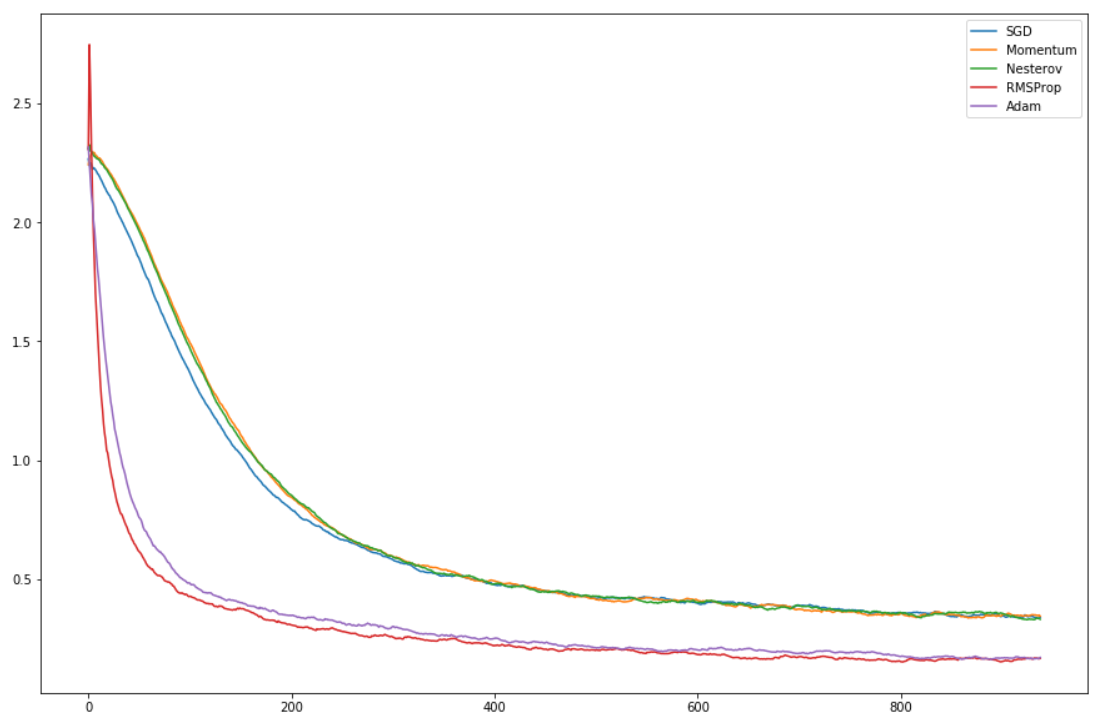
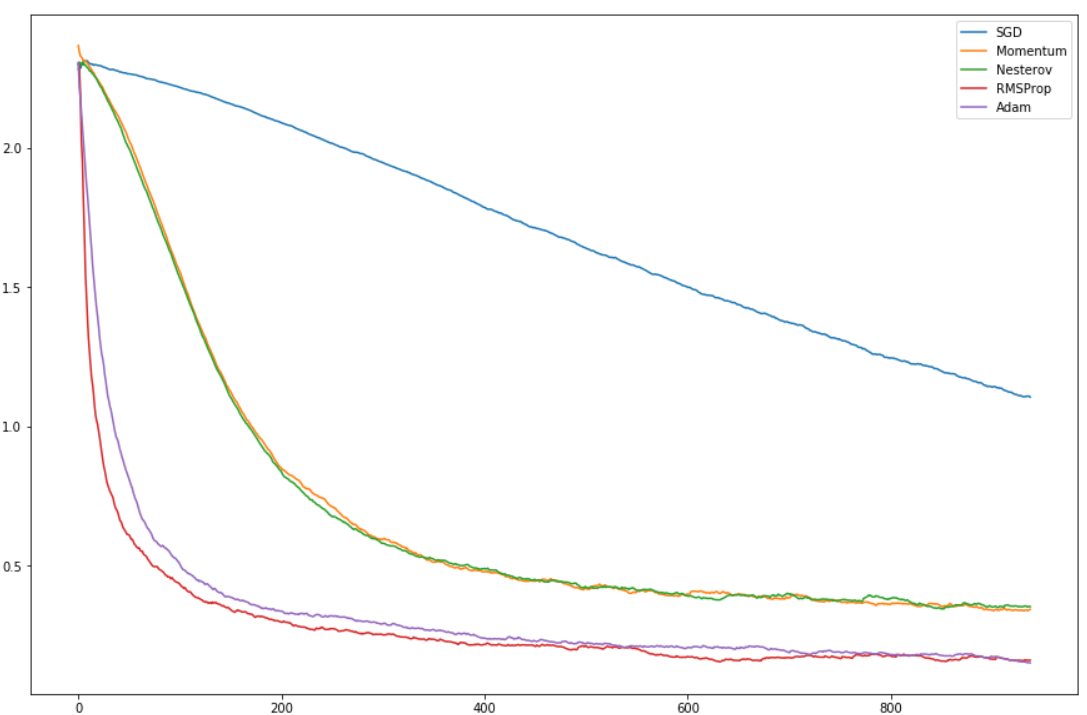
Automatic commit

diff --git a/sgd-variants.html b/sgd-variants.html
@@ -204,9 +204,8 @@ avoiding the phenomenon where gradients were exploding.</p>
 <a class="reference external" href="/a-neural-net-in-pytorch.html">digit classifier we built in pytorch</a> and plotted the smoothed loss (
 as described when we implemented the <a class="reference external" href="/how-do-you-find-a-good-learning-rate.html">learning rate finder</a>) for each of them.</p>
 <img alt="Loss over iterations with all the SGD variants" class="align-center" src="../images/art3_variants.png" style="width: 600px;" />
-<p>This is the loss as we go through our mini-batches with the same initial model. Momentum and Nesterov end up finding
-the same loss as vanilla SGD, but it's probably because they needed more time to get to a better stop. What's interesting is that RMSProp and Adam tend to get the
-loss really low extremely fast, even if RMSProp had a little spike of error at the beginning.</p>
+<p>This is the loss as we go through our mini-batches with the same initial model. All variants are better than vanilla SGD, but it's probably because it needed more time to get to a
+better stop. What's interesting is that RMSProp and Adam tend to get the loss really low extremely fast.</p>
 </div>
 <script type='text/javascript'>if (!document.getElementById('mathjaxscript_pelican_#%@#$@#')) {
     var align = "center",
